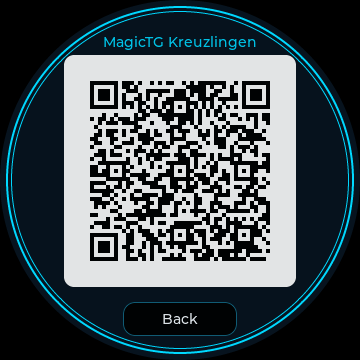
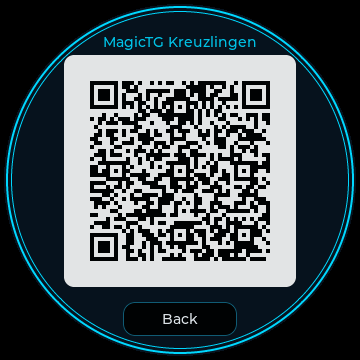
Keep LCD pixels outside the round face black

diff --git a/tests/ui_tests.cpp b/tests/ui_tests.cpp
@@ -1,6 +1,7 @@
 #include "lvgl.h"
 #include "ui/AppUI.hpp"
 #include "core/AppInfo.hpp"
+#include "platform/RoundDisplay.hpp"
 #include "SimulatorHardware.hpp"
 #include "third_party/json.hpp"
 #include <cstdlib>
@@ -41,8 +42,10 @@ void check(bool condition,const std::string& message) {
 void flush(lv_display_t* d,const lv_area_t* a,uint8_t* data) {
  ++flushCount;
  flushedPixels+=static_cast<std::uint64_t>(lv_area_get_width(a))*lv_area_get_height(a);
- for(int y=a->y1;y<=a->y2;++y)for(int x=a->x1;x<=a->x2;++x)
-  pixels[y*size+x]=reinterpret_cast<uint32_t*>(data)[(y-a->y1)*(a->x2-a->x1+1)+x-a->x1];
+ for(int y=a->y1;y<=a->y2;++y){
+  for(int x=a->x1;x<=a->x2;++x)pixels[y*size+x]=reinterpret_cast<uint32_t*>(data)[(y-a->y1)*(a->x2-a->x1+1)+x-a->x1];
+  mtg::blackOutsideFace(&pixels[y*size+a->x1],a->x1,y,lv_area_get_width(a),1,4);
+ }
  lv_display_flush_ready(d);
 }
 void read(lv_indev_t*,lv_indev_data_t* data) {
@@ -97,7 +100,11 @@ void holdAt(int x,int y){hardware.setTouch({x,y,true});tick(35);hardware.setTouc
 void trackers(){app->openTrackers();tick();}
 void rotate(int steps){hardware.rotate(steps);tick();}
 void screenshot(const char* file) {
- tick();std::ofstream out(file,std::ios::binary);
+ tick();
+ for(int y=0;y<size;++y)for(int x=0;x<size;++x){int dx=2*x+1-size,dy=2*y+1-size;
+  if(dx*dx+dy*dy>4*mtg::faceRadius*mtg::faceRadius)check((pixels[y*size+x]&0xffffff)==0,"every screen must keep the panel perimeter black");
+ }
+ std::ofstream out(file,std::ios::binary);
  auto u16=[&](unsigned v){out.put(static_cast<char>(v));out.put(static_cast<char>(v>>8));};
  auto u32=[&](unsigned v){u16(v);u16(v>>16);};
  out.write("BM",2);u32(54+size*size*4);u32(0);u32(54);u32(40);u32(size);u32(size);u16(1);u16(32);u32(0);u32(size*size*4);u32(2835);u32(2835);u32(0);u32(0);
@@ -125,9 +132,9 @@ int main() {
  check(!lv_obj_is_visible(setupQr)&&find(lv_screen_active(),"Connecting to Wi-Fi..."),"Connecting hides the expired setup QR");
  updates.current.phase=mtg::UpdatePhase::Current;++updates.current.revision;tick();check(find(lv_screen_active(),"FIRMWARE"),"A completed setup returns to firmware status");
  click("Wi-Fi setup");auto cancellations=updates.cancels;click("Back");check(updates.cancels==cancellations+1&&find(lv_screen_active(),"FIRMWARE"),"Setup Back closes the temporary network and returns one level");click("Back");click("Back");
- updates.current.phase=mtg::UpdatePhase::Available;updates.current.latest="0.15.3";updates.current.message="New version ready to install";++updates.current.revision;tick();
+ updates.current.phase=mtg::UpdatePhase::Available;updates.current.latest="0.15.4";updates.current.message="New version ready to install";++updates.current.revision;tick();
  check(!lv_obj_has_state(lv_obj_get_parent(find(lv_screen_active(),"Update")),LV_STATE_DISABLED),"compatible newer release enables Update");
- click("Update");check(find(lv_screen_active(),"Latest 0.15.3"),"update page shows the available version");screenshot("ui-updates.bmp");click("Back");
+ click("Update");check(find(lv_screen_active(),"Latest 0.15.4"),"update page shows the available version");screenshot("ui-updates.bmp");click("Back");
  updates.current.phase=mtg::UpdatePhase::Current;++updates.current.revision;tick();
  check(lv_obj_has_state(lv_obj_get_parent(find(lv_screen_active(),"Update")),LV_STATE_DISABLED),"Update disables when no newer release exists");
  rotate(100);check(!game.state().active && game.player().life==40,"startup rotary cannot edit game");

diff --git a/tests/hardware_policy_tests.cpp b/tests/hardware_policy_tests.cpp
@@ -2,10 +2,24 @@
 #include "platform/TimingStats.hpp"
 #include "platform/BatteryRing.hpp"
 #include "platform/EncoderBatch.hpp"
+#include "platform/RoundDisplay.hpp"
+#include <vector>
 #include <stdexcept>
 #include <iostream>
 void check(bool condition,const char* why){if(!condition)throw std::runtime_error(why);}
 int main(){try{
+ for(unsigned bytes:{2u,4u})for(const auto& area:std::array<std::array<int,4>,5>{{{0,0,360,360},{0,177,12,6},{170,4,20,9},{82,100,196,180},{170,347,20,13}}}){
+  int x=area[0],y=area[1],w=area[2],h=area[3];std::size_t stride=w*bytes+6;
+  std::vector<std::uint8_t> pixels(17+stride*h+17,0xab);
+  mtg::blackOutsideFace(pixels.data()+17,x,y,w,h,bytes,stride);
+  for(int row=0;row<h;++row){
+   for(int col=0;col<w;++col){int dx=2*(x+col)+1-360,dy=2*(y+row)+1-360;bool outside=dx*dx+dy*dy>4*176*176;
+    for(unsigned byte=0;byte<bytes;++byte)check(pixels[17+row*stride+col*bytes+byte]==(outside?0:0xab),"Perimeter mask must clear outside pixels and preserve inside pixels for full/partial RGB565 and RGB8888 transfers");
+   }
+   for(unsigned pad=0;pad<6;++pad)check(pixels[17+row*stride+w*bytes+pad]==0xab,"Perimeter mask must preserve row padding");
+  }
+  for(unsigned guard=0;guard<17;++guard)check(pixels[guard]==0xab&&pixels[pixels.size()-1-guard]==0xab,"Perimeter mask must not write outside the transfer buffer");
+ }
  mtg::EncoderBatch encoder;check(encoder.take().delta==0,"Empty encoder batch");
  encoder.add(1,1000);encoder.add(1,2000);auto clockwise=encoder.take();
  check(clockwise.delta==2&&clockwise.sampledAt==1000,"Encoder batches must keep the oldest pending pulse time");

diff --git a/firmware/main/Board.cpp b/firmware/main/Board.cpp
@@ -1,5 +1,6 @@
 #include "Board.hpp"
 #include "PanelInit.hpp"
+#include "platform/RoundDisplay.hpp"
 #include "driver/gpio.h"
 #include "driver/i2c.h"
 #include "driver/ledc.h"
@@ -251,6 +252,7 @@ void Board::flush(lv_display_t* display,const lv_area_t* area,uint8_t* pixels) {
  for(int y=area->y1;y<=area->y2;y+=rows){
   int height=std::min(rows,static_cast<int>(area->y2-y+1));size_t bytes=w*height*2;
   std::memcpy(b.dmaBuffer_,pixels+(y-area->y1)*w*2,bytes);
+  blackOutsideFace(b.dmaBuffer_,area->x1,y,w,height,2);
   lv_draw_sw_rgb565_swap(b.dmaBuffer_,w*height);
   ESP_ERROR_CHECK(esp_lcd_panel_draw_bitmap(b.panel_,area->x1,y,area->x2+1,y+height,b.dmaBuffer_));
   ESP_ERROR_CHECK(xSemaphoreTake(b.txDone_,pdMS_TO_TICKS(100))==pdTRUE?ESP_OK:ESP_ERR_TIMEOUT);
@@ -297,6 +299,15 @@ void Board::begin() {
 #ifdef CONFIG_ARCANA_ROTATE_180
  ESP_ERROR_CHECK(esp_lcd_panel_mirror(panel_,true,true));
 #endif
+ // LCD RAM can retain arbitrary/stale edge pixels outside LVGL's rounded
+ // screen. Clear the complete square address space before lighting the panel.
+ std::memset(dmaBuffer_,0,bufferSize);
+ for(int y=0;y<width;y+=rows){
+  const int height=std::min(rows,width-y);
+  ESP_ERROR_CHECK(esp_lcd_panel_draw_bitmap(panel_,0,y,width,y+height,dmaBuffer_));
+  ESP_ERROR_CHECK(xSemaphoreTake(txDone_,pdMS_TO_TICKS(100))==pdTRUE?ESP_OK:ESP_ERR_TIMEOUT);
+ }
+ ESP_LOGI("DISPLAY","Cleared 360x360 LCD; outside face radius %d stays black",faceRadius);
  ESP_ERROR_CHECK(esp_lcd_panel_disp_on_off(panel_,true));
 
  i2c_config_t i2c{};i2c.mode=I2C_MODE_MASTER;i2c.sda_io_num=9;i2c.scl_io_num=10;

diff --git a/src/platform/RoundDisplay.hpp b/src/platform/RoundDisplay.hpp
@@ -1,0 +1,38 @@
+#pragma once
+#include <algorithm>
+#include <array>
+#include <cstddef>
+#include <cstdint>
+#include <cstring>
+
+namespace mtg {
+inline constexpr int faceSize=360,faceRadius=176;
+struct FaceSpan {int begin=0,end=0;};
+inline constexpr auto faceSpans=[] {
+ std::array<FaceSpan,faceSize> spans{};
+ for(int y=0;y<faceSize;++y){
+  const int dy=2*y+1-faceSize;
+  for(int x=0;x<faceSize/2;++x){
+   const int dx=2*x+1-faceSize;
+   if(dx*dx+dy*dy<=4*faceRadius*faceRadius){spans[y]={x,faceSize-x};break;}
+  }
+ }
+ return spans;
+}();
+
+// Apply at the final transfer, after all artwork/transitions. Black is zero in
+// both RGB565 and XRGB8888. Row spans avoid extra LVGL masks or per-pixel work.
+inline void blackOutsideFace(void* pixels,int x,int y,int width,int height,std::size_t pixelBytes,std::size_t stride=0){
+ if(width<=0||height<=0||!pixelBytes||x<0||y<0||x+width>faceSize||y+height>faceSize)return;
+ const auto top=faceSpans[y],bottom=faceSpans[y+height-1];
+ if(top.end&&bottom.end&&x>=std::max(top.begin,bottom.begin)&&x+width<=std::min(top.end,bottom.end))return;
+ if(!stride)stride=static_cast<std::size_t>(width)*pixelBytes;
+ auto* row=static_cast<std::uint8_t*>(pixels);
+ for(int i=0;i<height;++i,row+=stride){
+  const auto span=faceSpans[y+i];
+  const int left=std::clamp(span.begin-x,0,width),right=std::clamp(span.end-x,0,width);
+  if(left)std::memset(row,0,left*pixelBytes);
+  if(right<width)std::memset(row+right*pixelBytes,0,(width-right)*pixelBytes);
+ }
+}
+}

diff --git a/simulator/main.cpp b/simulator/main.cpp
@@ -7,6 +7,7 @@
 #include "LanTransport.hpp"
 #include "core/DeviceProfile.hpp"
 #include "core/Multiplayer.hpp"
+#include "platform/RoundDisplay.hpp"
 #include <vector>
 #include <iostream>
 #include <string>
@@ -27,6 +28,12 @@ void flush(lv_display_t* display,const lv_area_t* area,uint8_t* data) {
  for(int y=area->y1;y<=area->y2;++y)
   for(int x=area->x1;x<=area->x2;++x)
    pixels[y*W+x]=reinterpret_cast<uint32_t*>(data)[(y-area->y1)*(lv_display_get_buf_active(display)->header.stride/4)+x-area->x1];
+ if(device){
+  lv_area_t face;lv_obj_get_coords(device,&face);
+  int left=std::max<int>(area->x1,face.x1),right=std::min<int>(area->x2,face.x2);
+  if(left<=right)for(int y=std::max<int>(area->y1,face.y1);y<=std::min<int>(area->y2,face.y2);++y)
+   mtg::blackOutsideFace(&pixels[y*W+left],left-face.x1,y-face.y1,right-left+1,1,4);
+ }
  ++flushes; lv_display_flush_ready(display);
 }
 void readTouch(lv_indev_t*,lv_indev_data_t* data) {

diff --git a/src/core/AppInfo.hpp b/src/core/AppInfo.hpp
@@ -1,6 +1,6 @@
 #pragma once
 namespace mtg::appInfo {
-inline constexpr const char* version="0.15.2";
+inline constexpr const char* version="0.15.3";
 inline constexpr const char* repository="michaelDengl/arcana-mtg-life-counter";
 inline constexpr const char* repositoryUrl="https://github.com/michaelDengl/arcana-mtg-life-counter";
 inline constexpr const char* creator="Michael Dengl";

diff --git a/firmware/README.md b/firmware/README.md
@@ -204,3 +204,9 @@ The OTA-enabled build adds Update/About below New Game, approved email and Magic
 See [OTA setup, versioning and draft-release workflow](OTA.md). The owner device successfully provisioned home Wi-Fi and installed the published v0.15.1 image from GitHub over Wi-Fi on 2026-11-22. Monitoring confirmed `ota_1` boot, valid image state and a subsequent check reporting the release as current. The owner's accepted power firmware and backups remain archived separately.
 
 Version 0.15.2 adds a setup-network Wi-Fi QR and a setup-only captive portal. Local DNS and HTTP redirects allow the phone to offer its Wi-Fi sign-in page after joining; the manual address remains available. Back, timeout and saved credentials close the setup services, and setup DNS options are cleared before later multiplayer use. Native tests cover QR rendering/navigation and bounded DNS parsing. Phone-specific automatic opening and the new release's hardware behavior remain for the owner's later wireless test.
+
+### Black display perimeter (0.15.3)
+
+The LCD is cleared across all 360 x 360 addressable pixels before the first frame/backlight. Every DMA transfer then zeros pixels outside radius 176 around the panel's pixel-center midpoint, leaving the 348px outer teal ring and its antialiasing intact. Precomputed row spans clear only the outside portions; rectangles entirely inside the face bypass the work. This does not add an LVGL clipping layer or change the battery-status LEDs. The digital twin applies the same perimeter policy.
+
+All eleven native suites pass. Regression coverage checks full and partial RGB565/XRGB8888 buffers, row padding and guard bytes; all captured UI screens require a black perimeter. Existing incremental/full redraw comparisons and wheel redraw budgets still pass, with 36,825 / 11,637 / 19,947 pixels for first edit, steady edit and Undo expiry. The owner device received independently verified firmware and booted v0.15.3 with valid image state; its startup log confirms the complete LCD clear, and saved home Wi-Fi still connects. Physical edge appearance awaits the owner's visual confirmation.

diff --git a/README.md b/README.md
@@ -1,6 +1,6 @@
 # Arcana / MTG Life Counter
 
-**Version 0.15.2** - Windows digital twin, multi-format play and local-network multiplayer.
+**Version 0.15.3** - Windows digital twin, multi-format play and local-network multiplayer.
 
 A native Windows digital twin of a round 360 x 360 knob display, with a shared LVGL interface designed for eventual ESP32-S3 deployment. The app supports Commander, Classic, Commander 2HG, Brawl and Limited, with in-memory matches and a touch/rotary interface.
 
@@ -69,6 +69,8 @@ Startup offers **New Game**, **Update** and **About**. Update is enabled only af
 About shows the installed version, Michael Dengl's contact email, and **MagicTG Kreuzlingen**. Tap the email or group button to display its QR code. The contact links are `michaeldengl@hotmail.com` and the supplied MagicTG Kreuzlingen WhatsApp invitation.
 
 Wi-Fi setup displays a scannable code containing the temporary ARCANA network name and password. Scan it with your phone, accept Join, then follow the Wi-Fi sign-in page or notification to enter your home 2.4 GHz Wi-Fi details. If the page does not appear, open **http://192.168.4.1**. Setup closes on Back or after three minutes; it does not run during games. [Wi-Fi setup preview](docs/previews/ui-wifi-setup.png).
+
+The display perimeter outside the face is forced to pure black, including during partial redraws and menu transitions. Firmware clears the full 360 x 360 LCD before enabling the backlight so stale pixels cannot remain around the circular face. This uses the existing transfer buffer rather than adding another LVGL masking layer.
 
 | About and contact | MagicTG Kreuzlingen invite | Firmware updates |
 | --- | --- | --- |

diff --git a/firmware/OTA.md b/firmware/OTA.md
@@ -39,7 +39,7 @@ Offline, connection failures, no release, or an incompatible release leave Updat
 Keep `src/core/AppInfo.hpp`, the top-level CMake project and `firmware/CMakeLists.txt` on the same numeric version. Build and test, then run:
 
 ```powershell
-.\.tools\esp-python\Scripts\python.exe tools/package_firmware.py --tag v0.15.2
+.\.tools\esp-python\Scripts\python.exe tools/package_firmware.py --tag v0.15.3
 ```
 
 Packaging checks the built image's project, embedded version and size, then creates `build/release-assets/arcana-jc3636k718.bin`, a JSON description and `SHA256SUMS`. The binary filename is part of the model compatibility contract. GitHub supplies its asset digest; the device requires `sha256:` followed by 64 lowercase hex digits.
